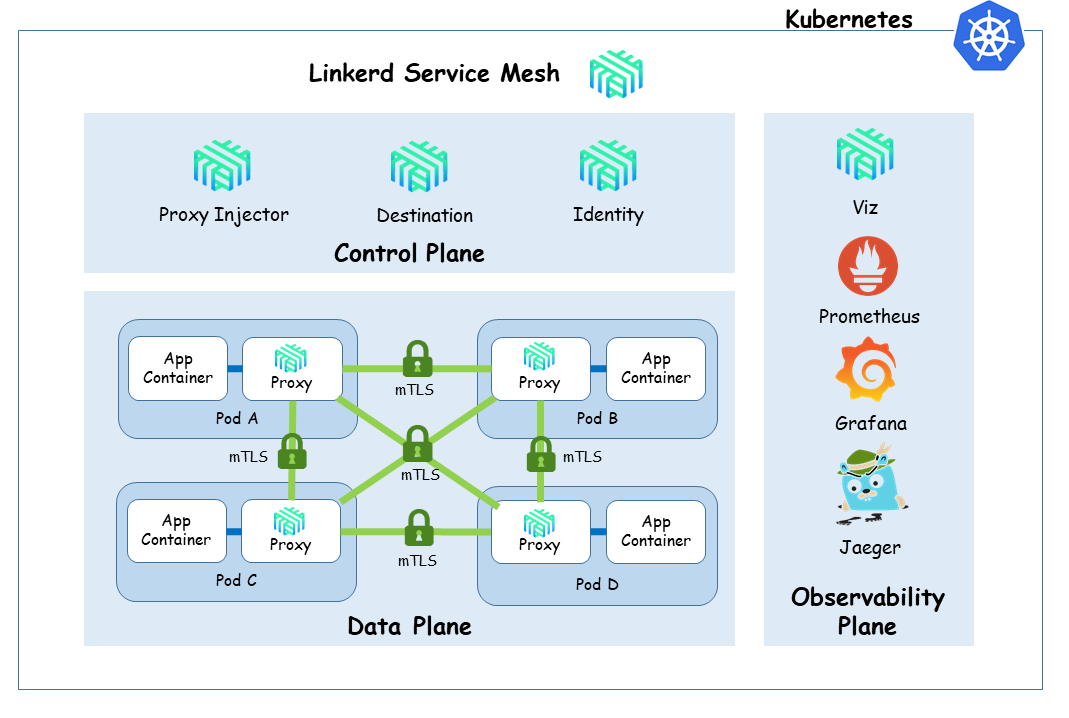
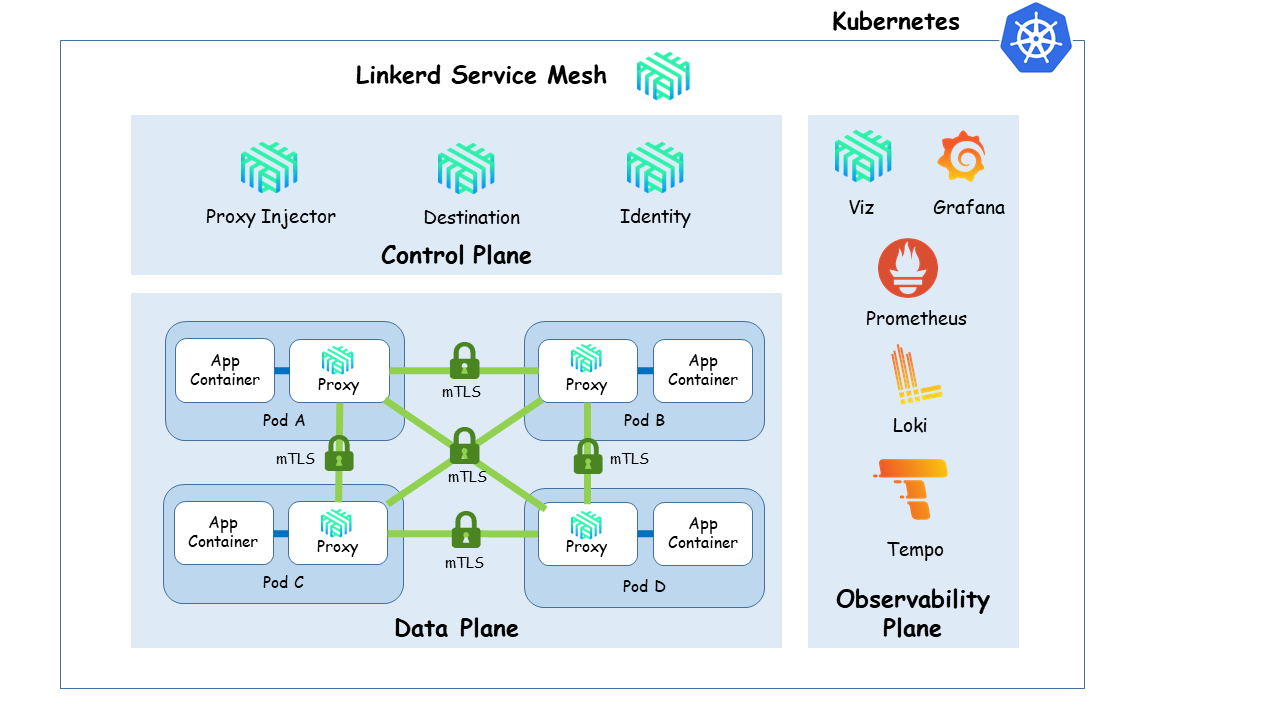
Moving linkerd tracing configuration to service-mesh page

diff --git a/docs/_docs/service-mesh.md b/docs/_docs/service-mesh.md
@@ -2,7 +2,7 @@
 title: Service Mesh (Linkerd)
 permalink: /docs/service-mesh/
 description: How to deploy service-mesh architecture based on Linkerd. Adding observability, traffic management and security to our Kubernetes cluster.
-last_modified_at: "09-09-2022"
+last_modified_at: "27-11-2022"
 
 ---
 
@@ -39,7 +39,10 @@ Linkerd service mesh archictecture is composed of three planes: control Plane, d
 
 - **Data Plane**, transparent proxy running as sidecar container within the pods. Proxies automatically intercept Pod's inbound/outbound TCP traffic and add transparantly encryption (mTLS), Later-7 load balancing, routing, retries, telemetry, etc. 
 
-- **Observability Plane**: Linkerd-viz component add a Linkerd dashboard and metrics generated by linkerd control-plane and data-plane components can be scraped by Prometheus and visualized in Grafana Dashboards. Linkerd also support distributed tracing integration with Jaeger.
+- **Observability Plane**: Linkerd service mesh is integrated into cluster Obserbability platform. 
+  - Linkerd control plane and data-plane components expose metrics that can be scraped by Prometheus and their logs can be captured and integrated into Loki (Logging aggregator)
+  - User-plane component (linkerd-proxy) can be also configured to emit traces to cluster tracing backend, Grafana Tempo. Linkerd-jaeger extension need to be installed.
+  - Linkerd-viz component add a service mesh web dashboard and pre-configured Grafana dashboards.
 
 
 ## Automatic mTLS configuration and Certmanager
@@ -229,12 +232,11 @@ This extension installs the following components into a new namespace linkerd-vi
 - A Prometheus instance
 - metrics-api, tap, tap-injector, and web components
 
-
-Since we have already our monitoring deployment, we will configure Viz extension to use the existing Prometheus and Grafana instance. See linkerd documentation ["Bringing your own Prometheus"](https://linkerd.io/2.12/tasks/external-prometheus/).
+Since we have already our [monitoring deployment](/docs/monitoring/), we will configure Viz extension to use the existing Prometheus and Grafana instance. See linkerd documentation ["Bringing your own Prometheus"](https://linkerd.io/2.12/tasks/external-prometheus/).
 
 Linkerd-viz dashboard (web component) will be exposed configuring a Ingress resource. 
 
-From Linkerd-viz release 2.12, Grafana component installation is not included. External Grafana need to be configured to enable drill-down from linkerd-viz's dashboards metrics to Grafana's dashboards.
+Since Linkerd-viz release 2.12, Grafana component installation is not included. External Grafana need to be configured to enable drill-down from linkerd-viz's dashboards metrics to Grafana's dashboards.
 
 By default linkerd-viz dashboard has a DNS rebinding protection. Since Traefik does not support a mechanism for ovewritting Host header, Host validation regexp, used by dashboard server, need to be tweaked using Helm chart parameter `enforcedHostRegexp`. See document ["Exposing dashboard - DNS Rebinding Protection"](https://linkerd.io/2.12/tasks/exposing-dashboard/#dns-rebinding-protection) for more details.
 
@@ -449,6 +451,46 @@ By default linkerd-viz dashboard has a DNS rebinding protection. Since Traefik d
   Linkerd available Grafana dashboards are located in linkerd2 repository: [linkerd grafana dashboards](https://github.com/linkerd/linkerd2/tree/main/grafana/dashboards)
 
   Follow ["Provision dashboards automatically"](/docs/prometheus/#provisioning-dashboards-automatically) procedure to load Grafana dashboards automatically.
+
+
+### Linkerd jaeger extension installation
+
+[Linkerd-jaeger extension](https://linkerd.io/2.12/tasks/distributed-tracing/) is needed to configure linkerd to emit span traces from linkerd-proxies.
+
+Linkerd jaegger extension, by default, installs Jaeger, as traces backend, [OpenTelemetry collector](https://opentelemetry.io/docs/collector/), to collect and distribute traces to Jaeger backend and Jaegger-injector, responsible for configuring the Linkerd proxies to emit spans.
+
+As part of the [Pi Cluster - Observability platform](/docs/observability), Tempo is used as tracing backend, instead of Jaeger. See [Tempo installation documentation](/docs/tracing/).
+
+Tempo's distributor component has embedded an OpenTelemetry collector. So neither Jaeger nor the collector are needed, only jaeger-injector is going to be installed.
+
+{{site.data.alerts.note}}
+
+Tempo service need to be meshed with linkerd before installing Linkerd jaeger extension with the procedure defined below.
+
+{{site.data.alerts.end}}
+
+
+- Step 1. Prepare linked-jaeger-values.yml
+
+  ```yml
+  collector:
+    enabled: false
+  jaeger:
+    enabled: false
+  webhook:
+    collectorSvcAddr: tempo-distributor.tracing:55678
+    collectorSvcAccount: tempo
+  ```
+  This configuration disables Jaeger and OTel Collector installation and configures jaeger-injector to send traces span to tempo-distributor component using OpenCensus receiver (port 55678)
+
+  `webhook.collectorSvcAddr` is OpenCensus endpoint distributor receiver
+  `webhook.collectorSvcAccount` is service account name used by Tempo.
+
+- Step 2. Install jaeger-extensiong helm chart
+
+  ```shell
+  helm install linkerd-jaeger -n linkerd-jaeger --create-namespace linkerd/linkerd-jaeger -f linkerd-jaeger-values.yml
+  ```
 
 
 ## Meshing a service with linkerd

diff --git a/docs/_docs/tracing.md b/docs/_docs/tracing.md
@@ -190,33 +190,8 @@ Where `user_policy.json`, contains the following AWS access policies definition:
   
 ## Linkerd traces integration
 
-[Linkerd-jaeger extension](https://linkerd.io/2.12/tasks/distributed-tracing/) is needed for activating the emisson of traces of linkerd-proxys components.
+Follow procedure described in ["Service Mesh (Linkerd) - Linkerd Jaeger extension installation"](/docs/service-mesh/#linkerd-jaeger-extension-installation) to enable linkerd distributing tracing capability.
 
-Linkerd jaegger extension, by default, installs Jaeger, as tracing solution backend, [OpenTelemetry collector](https://opentelemetry.io/docs/collector/), to collect and distribute traces to Jaeger backend and Jaegger-injector, responsible for configuring the Linkerd proxies to emit spans.
-
-Tempo will be used, instead of Jaeger, and Tempo distributor component has a embedded OpenTelemetry collector. So non of those components will be installe. Only jaeger-injector needs to be installed.
-
-- Step 1. Prepare linked-jaeger-values.yml
-
-  ```yml
-  collector:
-    enabled: false
-  jaeger:
-    enabled: false
-  webhook:
-    collectorSvcAddr: tempo-distributor.tracing:55678
-    collectorSvcAccount: tempo
-  ```
-  This configuration disables Jaeger and OTel Collector installation and configures jaeger-injector to send traces span to tempo-distributor component using OpenCensus receiver (port 55678)
-
-  `webhook.collectorSvcAddr` is OpenCensus endpoint distributor receiver
-  `webhook.collectorSvcAccount` is service account name used by Tempo.
-
-- Step 2. Install jaeger-extensiong helm chart
-
-  ```shell
-  helm install linkerd-jaeger -n linkerd-jaeger --create-namespace linkerd/linkerd-jaeger -f linkerd-jaeger-values.yml
-  ```
 
 ## Traefik traces integration
 
@@ -224,7 +199,7 @@ The ingress is a key component for distributed tracing solution because it is re
 
 Distributed tracing systems all rely on propagate the trace context throuhg the chain of involved services. This trace contex is encoding in HTTP request headers. Of the available propagation protocols, B3 is the only one supported by Linkerd, and so this is the one to be used in the whole system.
 
-Traefik uses OpenTracet to export traces to different backends. 
+Traefik uses OpenTrace to export traces to different backends. 
 
 To activate tracing using B3 propagation protocol, the following options need to be provided
   
